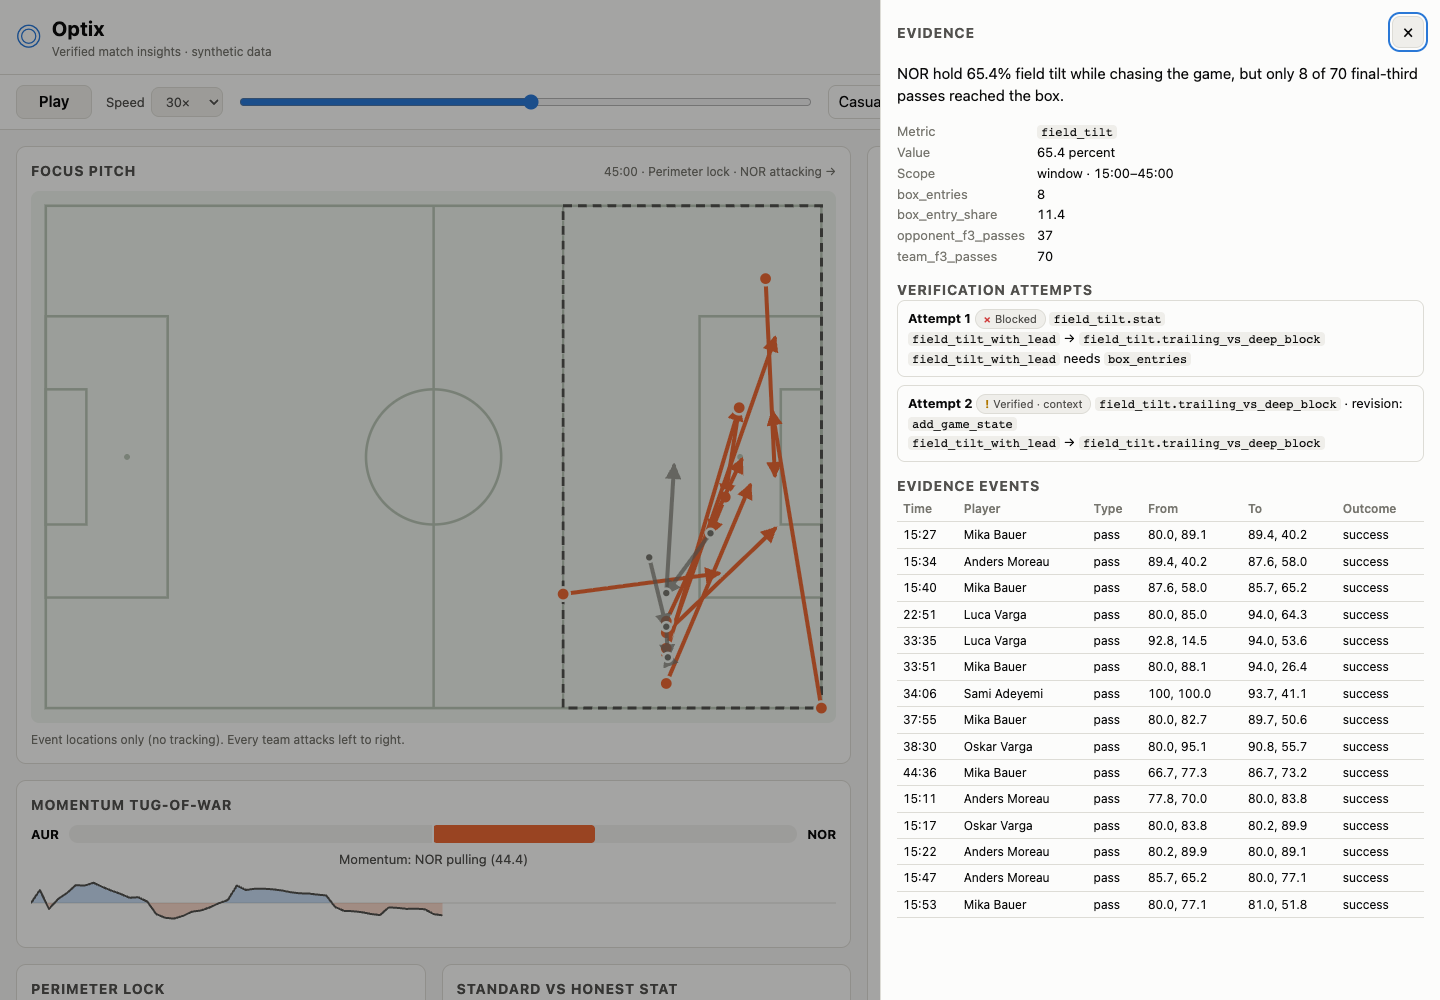
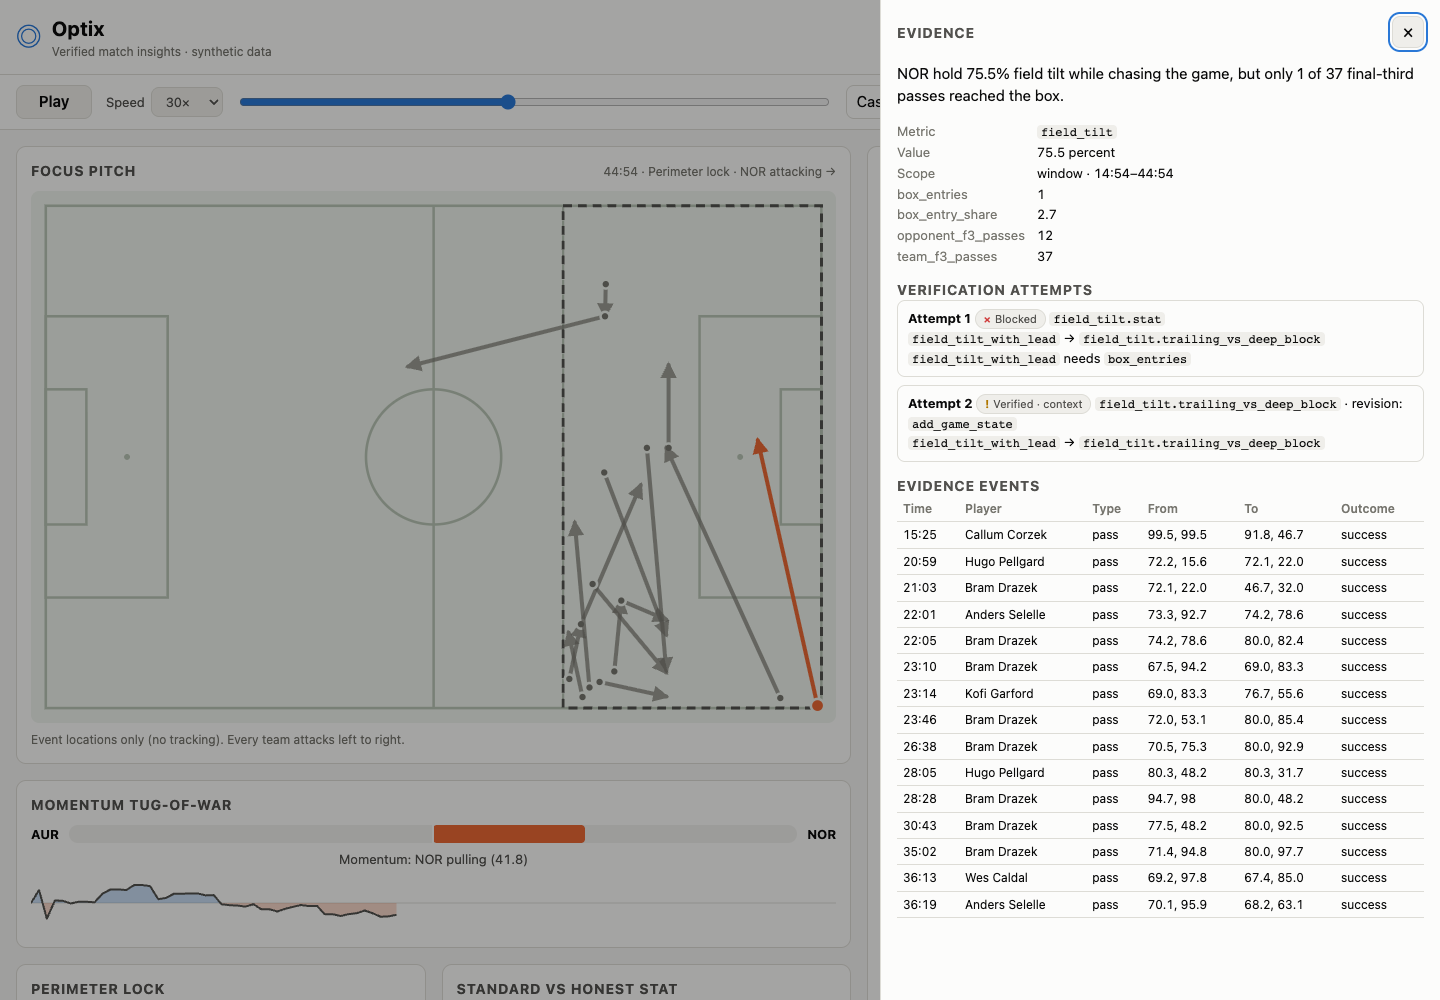
Realism v2: refreshed realism report and dashboard screenshots, final summary in PROGRESS

diff --git a/docs/realism-report.md b/docs/realism-report.md
@@ -4,53 +4,53 @@ Generated by `python -m tools.realism_report`. Ranges and sources: `data_gen/cal
 
 | Target | Range | Source | v1 full | Small league | Full league |
 |---|---|---|---|---|---|
-| goals_per_match | 2.6-3.3 | goals | 2.805 | 2.900 ok | 2.937 ok |
-| home_win_share | 0.4-0.49 | results | 0.413 | 0.475 ok | 0.434 ok |
-| draw_share | 0.2-0.28 | results | 0.261 | 0.125 ok | 0.255 ok |
-| away_win_share | 0.28-0.36 | results | 0.326 | 0.400 ok | 0.310 ok |
-| home_goal_edge | 0.15-0.45 | approximate | 0.295 | 0.300 ok | 0.326 ok |
-| goals_dispersion | 0.95-1.3 | approximate | 0.982 | 1.533 ok | 1.229 ok |
-| goals_first_15_share | 0.08-0.16 | goal_timing | 0.160 | 0.164 ok | 0.142 ok |
-| goals_last_15_share | 0.19-0.3 | goal_timing | 0.180 | 0.259 ok | 0.250 ok |
-| shots_per_team | 11.0-14.0 | approximate | 12.2 | 14.2 ok | 12.7 ok |
-| on_target_share | 0.32-0.37 | approximate | 0.410 | 0.329 ok | 0.351 ok |
-| blocked_share | 0.2-0.3 | approximate | 0.222 | 0.257 ok | 0.247 ok |
-| conversion | 0.09-0.12 | approximate | 0.115 | 0.102 ok | 0.116 ok |
-| xg_per_shot | 0.09-0.12 | approximate | 0.120 | 0.108 ok | 0.117 ok |
-| goals_vs_xg | -0.1-0.1 | approximate | -0.037 | -0.053 ok | -0.008 ok |
-| inside_box_share | 0.6-0.72 | approximate | 0.773 | 0.663 ok | 0.698 ok |
-| header_share | 0.11-0.19 | approximate | 0.399 | 0.149 ok | 0.154 ok |
-| mean_shot_distance_m | 15.5-18.5 | approximate | 15.7 | 18.3 ok | 17.6 ok |
-| penalties_per_match | 0.2-0.32 | penalties | 0.000 | 0.150 ok | 0.255 ok |
-| set_piece_goal_share | 0.2-0.33 | set_pieces | 0.073 | 0.164 ok | 0.215 ok |
-| corners_per_team | 4.5-5.8 | approximate | 5.221 | 5.525 ok | 5.513 ok |
-| crosses_per_team | 10.0-20.0 | approximate | 19.2 | 12.0 ok | 11.3 ok |
-| cross_completion | 0.2-0.3 | approximate | 0.287 | 0.274 ok | 0.268 ok |
-| passes_per_team | 400.0-520.0 | approximate | 554.1 | 443.3 ok | 445.2 ok |
-| pass_accuracy | 0.79-0.85 | approximate | 0.786 | 0.791 ok | 0.789 ok |
-| back_pass_share | 0.1-0.2 | approximate | 0.054 | 0.160 ok | 0.163 ok |
-| final_third_pass_share | 0.18-0.3 | approximate | 0.409 | 0.294 ok | 0.293 ok |
+| goals_per_match | 2.6-3.3 | goals | 2.805 | 3.000 ok | 2.937 ok |
+| home_win_share | 0.4-0.49 | results | 0.413 | 0.475 ok | 0.405 ok |
+| draw_share | 0.2-0.28 | results | 0.261 | 0.175 ok | 0.263 ok |
+| away_win_share | 0.28-0.36 | results | 0.326 | 0.350 ok | 0.332 ok |
+| home_goal_edge | 0.15-0.45 | approximate | 0.295 | 0.400 ok | 0.200 ok |
+| goals_dispersion | 0.95-1.3 | approximate | 0.982 | 1.483 ok | 1.266 ok |
+| goals_first_15_share | 0.08-0.16 | goal_timing | 0.160 | 0.158 ok | 0.141 ok |
+| goals_last_15_share | 0.19-0.3 | goal_timing | 0.180 | 0.250 ok | 0.244 ok |
+| shots_per_team | 11.0-14.0 | approximate | 12.2 | 14.0 ok | 12.7 ok |
+| on_target_share | 0.32-0.37 | approximate | 0.410 | 0.330 ok | 0.350 ok |
+| blocked_share | 0.2-0.3 | approximate | 0.222 | 0.255 ok | 0.244 ok |
+| conversion | 0.09-0.12 | approximate | 0.115 | 0.107 ok | 0.116 ok |
+| xg_per_shot | 0.09-0.12 | approximate | 0.120 | 0.108 ok | 0.116 ok |
+| goals_vs_xg | -0.1-0.1 | approximate | -0.037 | -0.004 ok | -0.007 ok |
+| inside_box_share | 0.6-0.72 | approximate | 0.773 | 0.657 ok | 0.691 ok |
+| header_share | 0.11-0.19 | approximate | 0.399 | 0.148 ok | 0.152 ok |
+| mean_shot_distance_m | 15.5-18.5 | approximate | 15.7 | 18.4 ok | 17.8 ok |
+| penalties_per_match | 0.2-0.32 | penalties | 0.000 | 0.150 ok | 0.279 ok |
+| set_piece_goal_share | 0.2-0.33 | set_pieces | 0.073 | 0.158 ok | 0.225 ok |
+| corners_per_team | 4.5-5.8 | approximate | 5.221 | 5.500 ok | 5.522 ok |
+| crosses_per_team | 10.0-20.0 | approximate | 19.2 | 12.0 ok | 11.1 ok |
+| cross_completion | 0.2-0.3 | approximate | 0.287 | 0.273 ok | 0.266 ok |
+| passes_per_team | 400.0-520.0 | approximate | 554.1 | 443.9 ok | 445.8 ok |
+| pass_accuracy | 0.79-0.85 | approximate | 0.786 | 0.791 ok | 0.790 ok |
+| back_pass_share | 0.1-0.2 | approximate | 0.054 | 0.161 ok | 0.163 ok |
+| final_third_pass_share | 0.18-0.3 | approximate | 0.409 | 0.295 ok | 0.293 ok |
 | tackles_per_team | 14.0-21.0 | approximate | 15.1 | 19.8 ok | 20.0 ok |
-| interceptions_per_team | 7.0-12.0 | approximate | 96.6 | 10.5 ok | 10.3 ok |
-| clearances_per_team | 14.0-26.0 | approximate | 0.000 | 17.7 ok | 17.6 ok |
-| fouls_per_team | 9.5-12.5 | fouls | 0.000 | 9.425 ok | 9.845 ok |
-| yellows_per_match | 3.3-4.6 | cards | 0.000 | 4.025 ok | 4.111 ok |
-| reds_per_match | 0.04-0.15 | approximate | 0.000 | 0.200 ok | 0.118 ok |
-| offsides_per_team | 1.4-2.6 | approximate | 0.000 | 1.975 ok | 1.966 ok |
-| added_time_min | 7.0-13.0 | added_time | 0.000 | 11.5 ok | 11.8 ok |
-| added_time_first_half_min | 1.0-4.0 | approximate | 0.000 | 3.764 ok | 3.677 ok |
-| added_time_second_half_min | 4.0-10.0 | approximate | 0.000 | 7.782 ok | 8.088 ok |
-| ball_in_play_min | 54.0-60.0 | ball_in_play | 90.0 | 59.0 ok | 59.3 ok |
-| subs_per_team | 3.0-5.0 | approximate | 0.000 | 4.600 ok | 4.416 ok |
-| ppda_league | 8.0-16.0 | approximate | 6.264 | n/a | 14.3 ok |
-| possession_sd_pp | 5.0-8.5 | approximate | 3.854 | n/a | 5.638 ok |
-| team_pass_spread | 1.45-2.4 | approximate | 1.167 | n/a | 1.591 ok |
-| champion_points | 78.0-95.0 | approximate | 84.0 | n/a | 88.0 ok |
-| bottom_points | 15.0-35.0 | approximate | 23.0 | n/a | 19.0 ok |
-| players_used_per_team | 20.0-30.0 | approximate | 11.0 | n/a | 22.6 ok |
-| corr_possession_shots | 0.3-1.0 | approximate | -0.392 | n/a | 0.692 ok |
-| corr_possession_pass_accuracy | 0.5-1.0 | approximate | 0.963 | n/a | 0.972 ok |
-| corr_ppda_possession | -1.0--0.2 | approximate | 0.113 | n/a | -0.486 ok |
+| interceptions_per_team | 7.0-12.0 | approximate | 96.6 | 10.4 ok | 10.5 ok |
+| clearances_per_team | 14.0-26.0 | approximate | 0.000 | 18.0 ok | 17.5 ok |
+| fouls_per_team | 9.5-12.5 | fouls | 0.000 | 9.412 ok | 9.815 ok |
+| yellows_per_match | 3.3-4.6 | cards | 0.000 | 4.025 ok | 4.053 ok |
+| reds_per_match | 0.04-0.15 | approximate | 0.000 | 0.200 ok | 0.124 ok |
+| offsides_per_team | 1.4-2.6 | approximate | 0.000 | 1.887 ok | 1.949 ok |
+| added_time_min | 7.0-13.0 | added_time | 0.000 | 11.6 ok | 11.6 ok |
+| added_time_first_half_min | 1.0-4.0 | approximate | 0.000 | 3.816 ok | 3.703 ok |
+| added_time_second_half_min | 4.0-10.0 | approximate | 0.000 | 7.779 ok | 7.930 ok |
+| ball_in_play_min | 54.0-60.0 | ball_in_play | 90.0 | 59.1 ok | 59.3 ok |
+| subs_per_team | 3.0-5.0 | approximate | 0.000 | 4.550 ok | 4.392 ok |
+| ppda_league | 8.0-16.0 | approximate | 6.264 | n/a | 14.4 ok |
+| possession_sd_pp | 5.0-8.5 | approximate | 3.854 | n/a | 5.602 ok |
+| team_pass_spread | 1.45-2.4 | approximate | 1.167 | n/a | 1.621 ok |
+| champion_points | 78.0-95.0 | approximate | 84.0 | n/a | 84.0 ok |
+| bottom_points | 15.0-35.0 | approximate | 23.0 | n/a | 21.0 ok |
+| players_used_per_team | 20.0-30.0 | approximate | 11.0 | n/a | 22.4 ok |
+| corr_possession_shots | 0.3-1.0 | approximate | -0.392 | n/a | 0.644 ok |
+| corr_possession_pass_accuracy | 0.5-1.0 | approximate | 0.963 | n/a | 0.974 ok |
+| corr_ppda_possession | -1.0--0.2 | approximate | 0.113 | n/a | -0.439 ok |
 
 Outside range: small league none; full league none.
 
@@ -58,30 +58,30 @@ Outside range: small league none; full league none.
 
 | xG bin | Shots | xG | Goals | z |
 |---|---|---|---|---|
-| 0.00-0.05 | 3363 | 82.8 | 74 | -0.99 |
-| 0.05-0.10 | 2336 | 168.1 | 164 | -0.33 |
-| 0.10-0.20 | 2414 | 346.2 | 342 | -0.25 |
-| 0.20-0.40 | 1139 | 311.9 | 311 | -0.06 |
-| 0.40-1.00 | 382 | 215.9 | 225 | 0.98 |
+| 0.00-0.05 | 3490 | 86.6 | 84 | -0.28 |
+| 0.05-0.10 | 2307 | 166.5 | 151 | -1.25 |
+| 0.10-0.20 | 2341 | 335.4 | 333 | -0.14 |
+| 0.20-0.40 | 1113 | 307.3 | 307 | -0.02 |
+| 0.40-1.00 | 402 | 228.2 | 241 | 1.35 |
 
 ## Goals per team per match (full league)
 
-Mean 1.47, variance 1.81, variance / mean 1.23 (Poisson is 1; real leagues run slightly over 1).
+Mean 1.47, variance 1.86, variance / mean 1.27 (Poisson is 1; real leagues run slightly over 1).
 
 ## Goal timing (full league, goals by football minute)
 
 | Window | Goals |
 |---|---|
-| 1st half 0-15 | 158 |
-| 1st half 30-45+ | 211 |
-| 2nd half 45-60 | 159 |
-| 2nd half 75-90+ | 279 |
+| 1st half 0-15 | 157 |
+| 1st half 30-45+ | 217 |
+| 2nd half 45-60 | 155 |
+| 2nd half 75-90+ | 272 |
 
 ## League correlations (full league, 20 teams)
 
 | Pair | r | Expected sign |
 |---|---|---|
-| possession vs shots | 0.69 | + |
+| possession vs shots | 0.64 | + |
 | possession vs pass accuracy | 0.97 | + |
-| PPDA vs possession | -0.49 | - |
-| press dial vs PPDA | -0.95 | - |
+| PPDA vs possession | -0.44 | - |
+| press dial vs PPDA | -0.94 | - |

diff --git a/docs/PROGRESS.md b/docs/PROGRESS.md
@@ -1,5 +1,103 @@
 # Progress log
 
+## Realism v2: summary (read this first)
+
+Branch `realism-v2` (tag `pre-realism-v2` marks the start). Commits: Stage 0 (fc34094),
+Stages 1-6 (2d3b6fa), Stages 7-8 (767cc7b and the final docs commit). Nothing pushed or merged.
+Default suite: 141 passed. Slow suite: 18 passed (full league, Verifier precision/recall,
+pooled seeds, showcase search from zero, dashboard).
+
+**What changed**
+- Fixtures: circle-method calendar with dates, kick-off slots, international breaks and two
+  midweek rounds; at most 2 home or 2 away in a row.
+- Squads of 24 with formations by style, `lineups.csv`, 2-5 substitutions, minutes played, bans
+  after a red card or a fifth yellow, light rotation, injuries.
+- The ball: failed passes end as interceptions, blocks, tackles, out of play or loose balls; duels,
+  carries, dribbles, clearances, saves, claims; throw-ins, goal kicks, corners, free kicks and
+  penalties; players and ball never teleport.
+- Chances: headers, inside-box share, on-target share, distance, penalties and set-piece goals in
+  range; xG calibrated by bin.
+- Dead balls and time: fouls, cards, offsides, stoppage time, ball in play, late goals.
+- League: bounded, correlated dials; champion and bottom points, correlations in range.
+- Tests: `tests/test_realism.py`; report: `python -m tools.realism_report` ->
+  `docs/realism-report.md`.
+- Engine and agents: PPDA counts fouls; ball-won height counts won tackles only; soft-lane gate
+  compares lifts against each lane's own league rate; shot_spam and field_tilt_with_lead retuned;
+  half-time summaries at the half-time whistle; momentum series cut at the claim window.
+- Dashboard: football time (45+x, 90+x), plays to the final whistle, the evidence drawer shows the
+  fouled or incoming player; screenshots in `docs/screens/` refreshed.
+
+**Before / after (full league, seed 2026; v1 = the v1 generator measured with today's definitions)**
+
+| Target | Range | v1 | v2 |
+|---|---|---|---|
+| goals_per_match | 2.6-3.3 | 2.805 | 2.937 ok |
+| draw_share | 0.2-0.28 | 0.261 | 0.263 ok |
+| goals_dispersion | 0.95-1.3 | 0.982 | 1.266 ok |
+| shots_per_team | 11.0-14.0 | 12.2 | 12.7 ok |
+| on_target_share | 0.32-0.37 | 0.410 | 0.350 ok |
+| inside_box_share | 0.6-0.72 | 0.773 | 0.691 ok |
+| header_share | 0.11-0.19 | 0.399 | 0.152 ok |
+| mean_shot_distance_m | 15.5-18.5 | 15.7 | 17.8 ok |
+| penalties_per_match | 0.2-0.32 | 0.000 | 0.279 ok |
+| set_piece_goal_share | 0.2-0.33 | 0.073 | 0.225 ok |
+| passes_per_team | 400.0-520.0 | 554.1 | 445.8 ok |
+| pass_accuracy | 0.79-0.85 | 0.786 | 0.790 ok |
+| back_pass_share | 0.1-0.2 | 0.054 | 0.163 ok |
+| final_third_pass_share | 0.18-0.3 | 0.409 | 0.293 ok |
+| interceptions_per_team | 7.0-12.0 | 96.6 | 10.5 ok |
+| clearances_per_team | 14.0-26.0 | 0.000 | 17.5 ok |
+| fouls_per_team | 9.5-12.5 | 0.000 | 9.815 ok |
+| yellows_per_match | 3.3-4.6 | 0.000 | 4.053 ok |
+| reds_per_match | 0.04-0.15 | 0.000 | 0.124 ok |
+| offsides_per_team | 1.4-2.6 | 0.000 | 1.949 ok |
+| added_time_first_half_min | 1.0-4.0 | 0.000 | 3.703 ok |
+| added_time_second_half_min | 4.0-10.0 | 0.000 | 7.930 ok |
+| ball_in_play_min | 54.0-60.0 | 90.0 | 59.3 ok |
+| subs_per_team | 3.0-5.0 | 0.000 | 4.392 ok |
+| ppda_league | 8.0-16.0 | 6.264 | 14.4 ok |
+| possession_sd_pp | 5.0-8.5 | 3.854 | 5.602 ok |
+| players_used_per_team | 20.0-30.0 | 11.0 | 22.4 ok |
+| corr_possession_shots | 0.3-1.0 | -0.392 | 0.644 ok |
+| corr_ppda_possession | -1.0--0.2 | 0.113 | -0.439 ok |
+
+Every one of the 47 targets is in range on the small and the full league (`docs/realism-report.md`
+has all of them, the xG bins, goal timing and correlations). **Targets still outside range: none.**
+
+**Traps and rules that changed behaviour**
+- All five traps still fire in the showcase with margin >= 10% (seed 20261383, AUR 4-1 NOR) and
+  are rediscovered from events alone. The engine reads no ground truth.
+- Field-tilt trap: volume gate 100 -> 60 final-third passes (realistic final-third volume). The
+  flank trap is checked against the season's completion rate for that lane.
+- NOR's weak lane is planted at strength 1.5; opponents aim at a known soft side.
+- CAL (the dominant negative control) and VES (both wings) dials were sharpened so their styles stay
+  recognisable under the new ball model.
+- shot_spam: >= 12 shots, >= 65% low xG, mean <= 0.08; field_tilt_with_lead: entry cap 18%. Recall
+  on the v2 full league 0.52 and 0.79, non-trap fire rates under 5%.
+- Soft lanes: 4 pp minimum lift plus a lift-based own-lanes z >= 2.33.
+
+**Decisions**: see "Decisions (realism v2)" below. **Test changes**: see "Test changes (realism v2)"
+below; none weakened a requirement, several raised one.
+
+**Needs human review**
+- Season luck is large in a 5-team, 40-match league. Several tests run on the one seed (2026).
+  During tuning, single-seed checks (CAL control, soft lanes, the season field-tilt firing,
+  dispersion) flipped with unrelated changes. All pass now, but they could flip again on a
+  simulator change. Consider running those checks over several seeds.
+- Champion points on the full league range from 77 to 95 across seeds (target 78-95; the brief said
+  80-92). Seed 2026 has 88.
+- Verifier recall moved by up to 0.15 between simulator builds (25-30 positives per rule). The
+  floors sit about one sampling SD below the current measurement.
+- The showcase is now a 4-1 (previously 2-1). The traps and story still hold. A future seed search
+  could prefer closer scores if the demo needs one.
+- The showcase's NOR match PPDA is high (31.4): AUR sit deep and NOR press little in this match.
+  It is published with press intensity alongside (ppda_alone), but worth a look on screen.
+- Stated as approximate: most v2 ranges are wide football-knowledge ranges (see
+  `data_gen/calibration.py` SOURCES); only goals, results, fouls, cards, penalties, set pieces,
+  added time, ball in play and late goals cite public pages.
+- Not modelled (optional per the brief): injuries are simple (fixed absence), rotation is light,
+  goalkeeper distribution is basic.
+
 ## Realism v2 (branch `realism-v2`, from `overnight`; tag `pre-realism-v2`)
 
 Started 2026-10-21 18:24.
@@ -68,11 +166,8 @@ Committed as one stage (see Decisions). Summary:
   underpowered; true ratio about 1.8); test_dashboard reads the final score from ground truth
   instead of a literal "2 – 1".
 - Docs: data-dictionary.md, engine.md and ARCHITECTURE.md updated for v2.
-- NOT DONE yet: refresh docs/screens/ (python -m tools.check_dashboard after agents.run_match;
-  the slow dashboard test passes), the final summary at the top of this file with the before/after
-  table (docs/realism-report.md has it), and the "Needs human review" list: the champion's points
-  vary 77-95 across seeds; the small-league CAL control's minimum entry share is close to its 15%
-  gate on some seeds; the Verifier's recall moved by up to 0.15 between builds.
+- Screenshots refreshed (python -m tools.check_dashboard): every view loads with no console error,
+  failed request or horizontal scroll.
 
 ### Decisions (realism v2)
 - Era for "realistic": recent seasons 2022/23-2024/25 as instructed; where those seasons differ a lot
